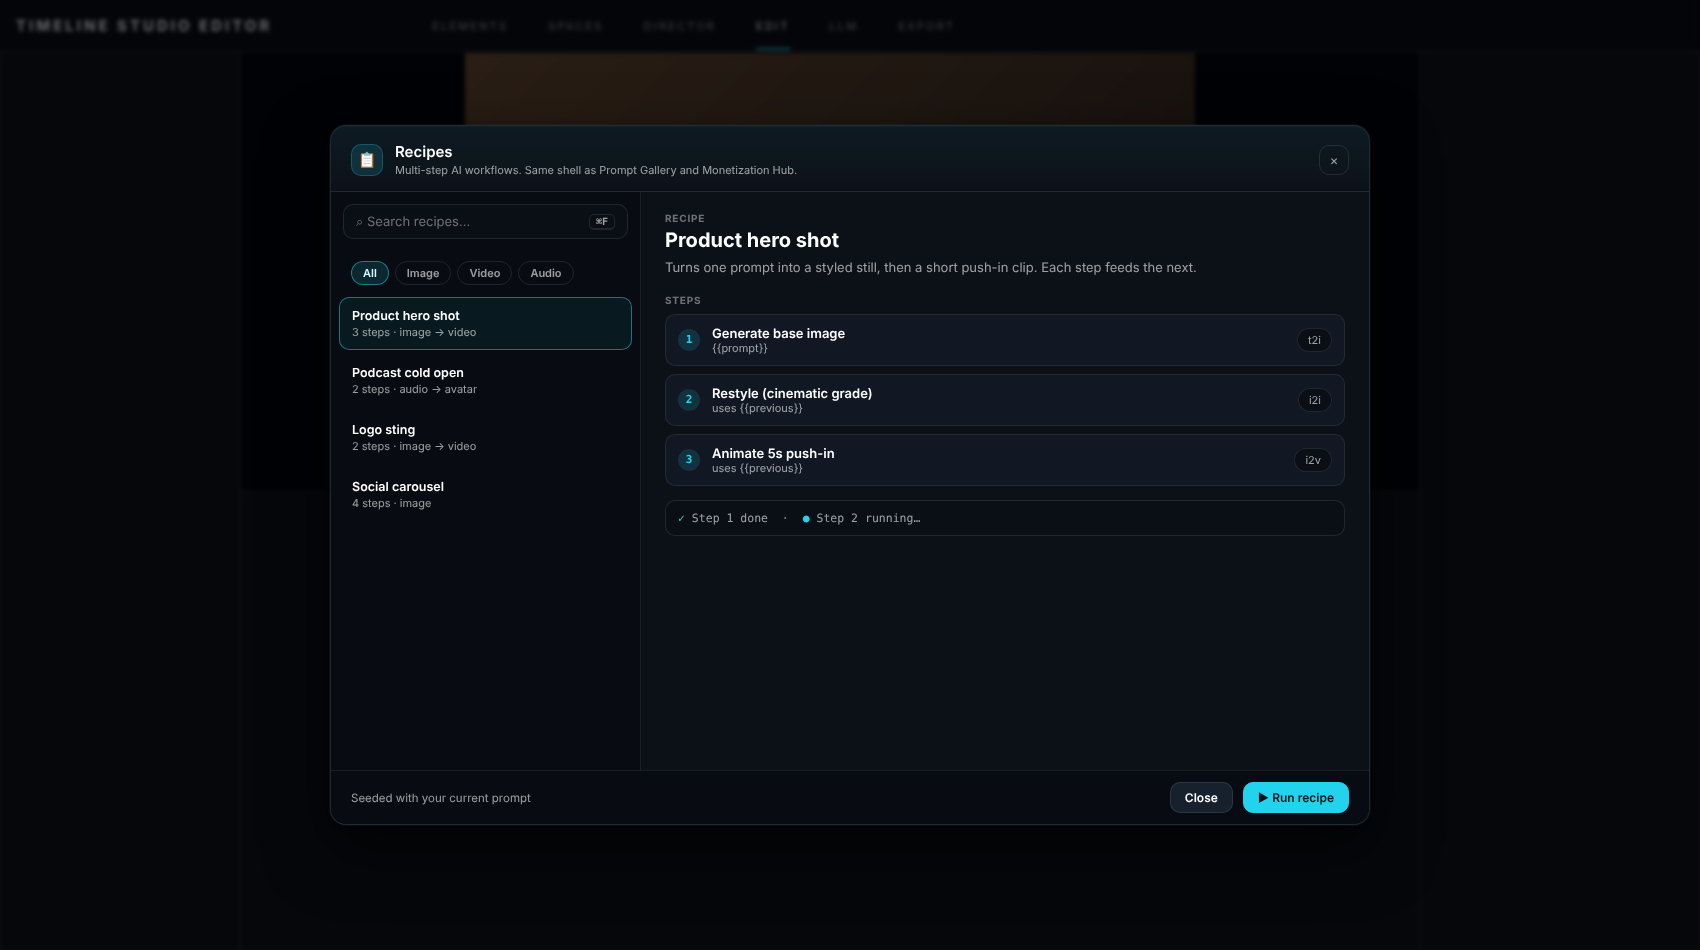
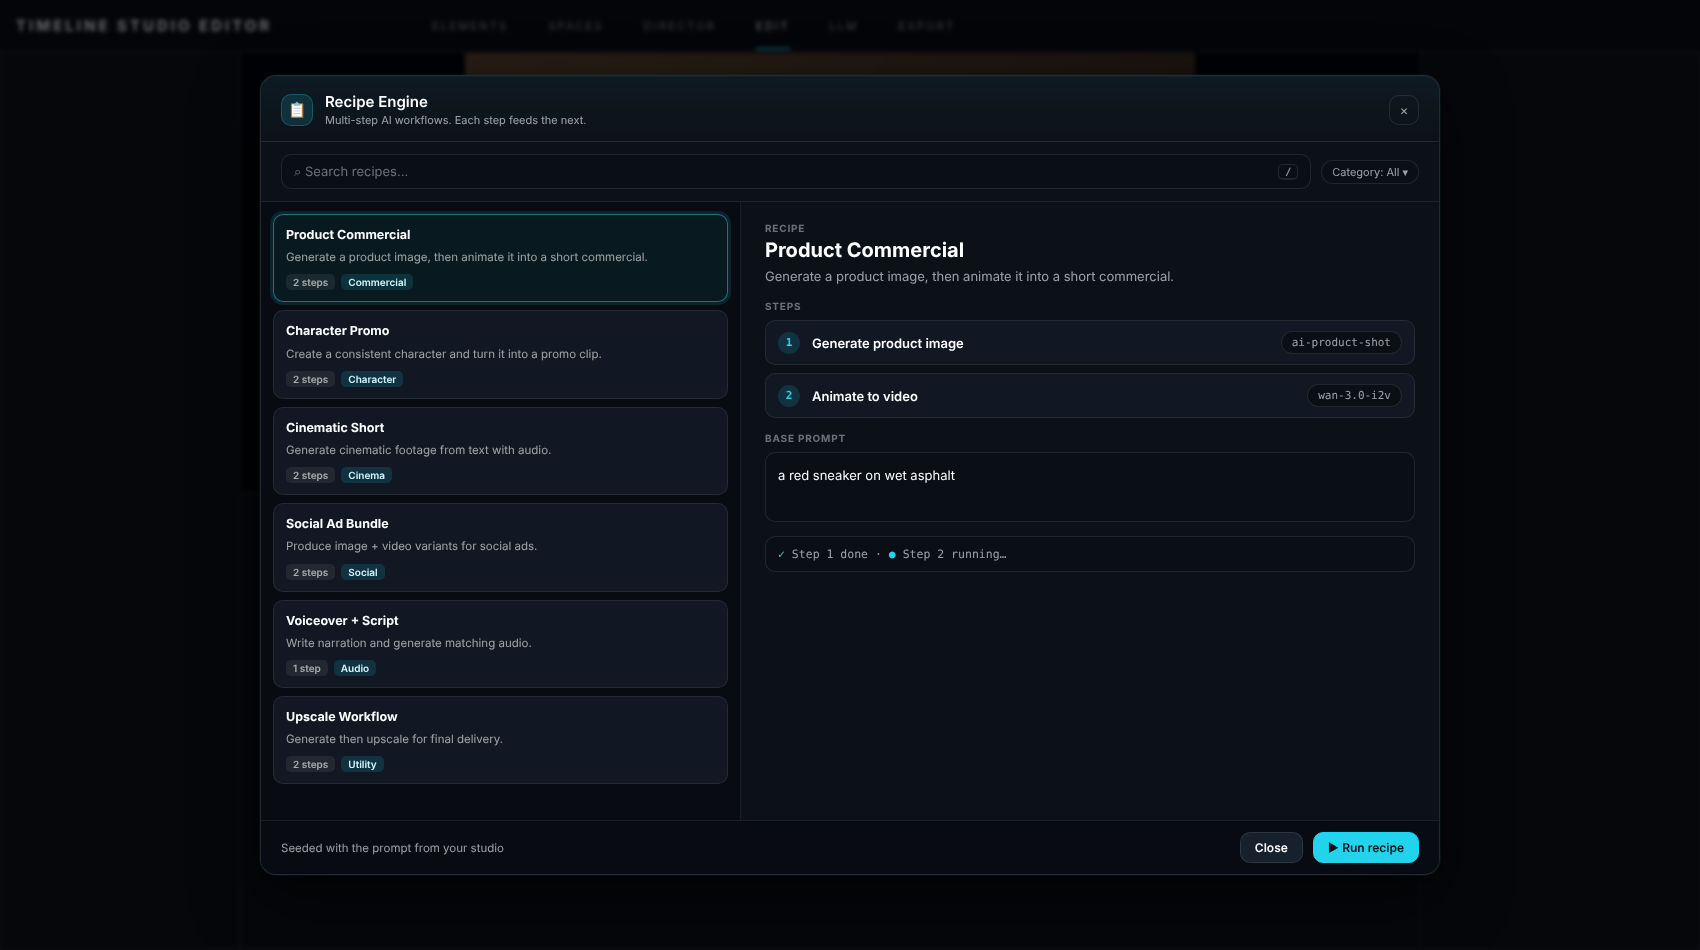
Add current vs proposed catalog modal screenshots to redesign plan
Claude-Session: https://claude.ai/code/session_01HH9yPbjmiMWkUjM1cAAiqS

diff --git a/plans/screenshots/timeline-modal-redesign/s4.html b/plans/screenshots/timeline-modal-redesign/s4.html
@@ -1,8 +1,10 @@
 <!doctype html><meta charset=utf-8><link rel=stylesheet href=mock.css><body><div class="bg"><div class="top"><b>TIMELINE STUDIO EDITOR</b><span>ELEMENTS</span><span>SPACES</span><span>DIRECTOR</span><span class="on">EDIT</span><span>LLM</span><span>EXPORT</span></div>
 <div class="pane" style="left:0;top:52px;width:240px;bottom:0"></div><div class="pane" style="right:0;top:52px;width:280px;bottom:0"></div>
 <div class="pane" style="left:240px;right:280px;top:52px;height:440px;background:#000"><div style="margin:0 auto;width:730px;height:100%;background:linear-gradient(135deg,#6b4a2b,#2b1d12)"></div></div>
-<div class="pane" style="left:240px;right:280px;top:492px;bottom:0"></div></div><div class="scrim"></div><div class="modal" style="width:1040px;height:700px"><div class="mh"><div class="mi">📋</div><div><div class="mt">Recipes</div><div class="ms">Multi-step AI workflows. Same shell as Prompt Gallery and Monetization Hub.</div></div><div class="x">×</div></div>
-<div style="display:flex;flex:1;min-height:0"><div style="width:310px;border-right:1px solid var(--b1);display:flex;flex-direction:column;background:var(--base)"><div style="padding:12px"><div class="search">⌕ Search recipes… <kbd>⌘F</kbd></div></div><div class="cats"><span class="cat on">All</span><span class="cat ">Image</span><span class="cat ">Video</span><span class="cat ">Audio</span></div><div style="padding:8px;display:flex;flex-direction:column;gap:4px"><div style="padding:10px 12px;border-radius:var(--rm);border:1px solid var(--acc-line);background:rgba(34,211,238,.07)"><div style="font-weight:600;font-size:12.5px">Product hero shot</div><div style="font-size:11px;color:var(--tx2);margin-top:2px">3 steps · image → video</div></div><div style="padding:10px 12px;border-radius:var(--rm);border:1px solid transparent;background:transparent"><div style="font-weight:600;font-size:12.5px">Podcast cold open</div><div style="font-size:11px;color:var(--tx2);margin-top:2px">2 steps · audio → avatar</div></div><div style="padding:10px 12px;border-radius:var(--rm);border:1px solid transparent;background:transparent"><div style="font-weight:600;font-size:12.5px">Logo sting</div><div style="font-size:11px;color:var(--tx2);margin-top:2px">2 steps · image → video</div></div><div style="padding:10px 12px;border-radius:var(--rm);border:1px solid transparent;background:transparent"><div style="font-weight:600;font-size:12.5px">Social carousel</div><div style="font-size:11px;color:var(--tx2);margin-top:2px">4 steps · image</div></div></div></div>
-<div style="flex:1;padding:20px 24px;overflow:hidden"><div class="lab">Recipe</div><div style="font-size:20px;font-weight:700;margin:4px 0 6px">Product hero shot</div><div style="color:var(--tx2);line-height:1.5;margin-bottom:16px">Turns one prompt into a styled still, then a short push-in clip. Each step feeds the next.</div><div class="lab" style="margin-bottom:8px">Steps</div><div style="display:flex;gap:12px;align-items:center;padding:10px 12px;border:1px solid var(--b1);background:var(--elev);border-radius:var(--rm);margin-bottom:8px"><span style="width:22px;height:22px;border-radius:11px;background:var(--acc-dim);color:var(--acc);display:grid;place-items:center;font:700 11px var(--mono)">1</span><div style="flex:1"><b style="font-weight:600">Generate base image</b><div style="font-size:11px;color:var(--tx2)">{{prompt}}</div></div><span class="chip">t2i</span></div><div style="display:flex;gap:12px;align-items:center;padding:10px 12px;border:1px solid var(--b1);background:var(--elev);border-radius:var(--rm);margin-bottom:8px"><span style="width:22px;height:22px;border-radius:11px;background:var(--acc-dim);color:var(--acc);display:grid;place-items:center;font:700 11px var(--mono)">2</span><div style="flex:1"><b style="font-weight:600">Restyle (cinematic grade)</b><div style="font-size:11px;color:var(--tx2)">uses {{previous}}</div></div><span class="chip">i2i</span></div><div style="display:flex;gap:12px;align-items:center;padding:10px 12px;border:1px solid var(--b1);background:var(--elev);border-radius:var(--rm);margin-bottom:8px"><span style="width:22px;height:22px;border-radius:11px;background:var(--acc-dim);color:var(--acc);display:grid;place-items:center;font:700 11px var(--mono)">3</span><div style="flex:1"><b style="font-weight:600">Animate 5s push-in</b><div style="font-size:11px;color:var(--tx2)">uses {{previous}}</div></div><span class="chip">i2v</span></div>
-<div style="margin-top:14px;padding:10px 12px;background:var(--input);border:1px solid var(--b2);border-radius:var(--rm);font:11.5px var(--mono);color:var(--tx2)"><span style="color:var(--ok)">✓</span> Step 1 done &nbsp;·&nbsp; <span style="color:var(--acc)">●</span> Step 2 running…</div></div></div>
-<div class="mf"><span>Seeded with your current prompt</span><span class="ml btn">Close</span><span class="btn p">▶ Run recipe</span></div></div></body>
+<div class="pane" style="left:240px;right:280px;top:492px;bottom:0"></div></div><div class="scrim"></div><div class="modal" style="width:1180px;height:800px"><div class="mh"><div class="mi">📋</div><div><div class="mt">Recipe Engine</div><div class="ms">Multi-step AI workflows. Each step feeds the next.</div></div><div class="x">×</div></div>
+<div class="bar"><div class="search">⌕ Search recipes… <kbd>/</kbd></div><span class="chip">Category: All ▾</span></div>
+<div class="two"><div class="lp"><div style="padding:12px;overflow:hidden;flex:1"><div class="li sel"><div class="tt" style="font-weight:700;padding:0">Product Commercial</div><div class="clamp" style="-webkit-line-clamp:1">Generate a product image, then animate it into a short commercial.</div><div class="meta"><span class="tag">2 steps</span><span class="tag a">Commercial</span></div></div><div class="li"><div class="tt" style="font-weight:700;padding:0">Character Promo</div><div class="clamp" style="-webkit-line-clamp:1">Create a consistent character and turn it into a promo clip.</div><div class="meta"><span class="tag">2 steps</span><span class="tag a">Character</span></div></div><div class="li"><div class="tt" style="font-weight:700;padding:0">Cinematic Short</div><div class="clamp" style="-webkit-line-clamp:1">Generate cinematic footage from text with audio.</div><div class="meta"><span class="tag">2 steps</span><span class="tag a">Cinema</span></div></div><div class="li"><div class="tt" style="font-weight:700;padding:0">Social Ad Bundle</div><div class="clamp" style="-webkit-line-clamp:1">Produce image + video variants for social ads.</div><div class="meta"><span class="tag">2 steps</span><span class="tag a">Social</span></div></div><div class="li"><div class="tt" style="font-weight:700;padding:0">Voiceover + Script</div><div class="clamp" style="-webkit-line-clamp:1">Write narration and generate matching audio.</div><div class="meta"><span class="tag">1 step</span><span class="tag a">Audio</span></div></div><div class="li"><div class="tt" style="font-weight:700;padding:0">Upscale Workflow</div><div class="clamp" style="-webkit-line-clamp:1">Generate then upscale for final delivery.</div><div class="meta"><span class="tag">2 steps</span><span class="tag a">Utility</span></div></div></div></div>
+<div class="rp"><div class="lab">Recipe</div><div style="font-size:20px;font-weight:700;margin:4px 0 6px">Product Commercial</div><div style="color:var(--tx2);margin-bottom:16px">Generate a product image, then animate it into a short commercial.</div>
+<div class="lab" style="margin-bottom:8px">Steps</div><div style="display:flex;gap:12px;align-items:center;padding:10px 12px;border:1px solid var(--b1);background:var(--elev);border-radius:var(--rm);margin-bottom:8px"><span style="width:22px;height:22px;border-radius:11px;background:var(--acc-dim);color:var(--acc);display:grid;place-items:center;font:700 11px var(--mono)">1</span><div style="flex:1"><b style="font-weight:600">Generate product image</b></div><span class="chip" style="font-family:var(--mono)">ai-product-shot</span></div><div style="display:flex;gap:12px;align-items:center;padding:10px 12px;border:1px solid var(--b1);background:var(--elev);border-radius:var(--rm);margin-bottom:8px"><span style="width:22px;height:22px;border-radius:11px;background:var(--acc-dim);color:var(--acc);display:grid;place-items:center;font:700 11px var(--mono)">2</span><div style="flex:1"><b style="font-weight:600">Animate to video</b></div><span class="chip" style="font-family:var(--mono)">wan-3.0-i2v</span></div><div class="lab" style="margin:14px 0 8px">Base prompt</div><div class="prev" style="font-family:Inter;font-size:13px;color:#fff;min-height:70px">a red sneaker on wet asphalt</div>
+<div style="margin-top:14px;padding:10px 12px;background:var(--input);border:1px solid var(--b2);border-radius:var(--rm);font:11.5px var(--mono);color:var(--tx2)"><span style="color:var(--ok)">✓</span> Step 1 done · <span style="color:var(--acc)">●</span> Step 2 running…</div></div></div>
+<div class="mf"><span>Seeded with the prompt from your studio</span><span class="ml btn">Close</span><span class="btn p">▶ Run recipe</span></div></div></body>

diff --git a/plans/screenshots/timeline-modal-redesign/s5.html b/plans/screenshots/timeline-modal-redesign/s5.html
@@ -1,0 +1,12 @@
+<!doctype html><meta charset=utf-8><link rel=stylesheet href=mock.css><body><div class="bg"><div class="top"><b>TIMELINE STUDIO EDITOR</b><span>ELEMENTS</span><span>SPACES</span><span>DIRECTOR</span><span class="on">EDIT</span><span>LLM</span><span>EXPORT</span></div>
+<div class="pane" style="left:0;top:52px;width:240px;bottom:0"></div><div class="pane" style="right:0;top:52px;width:280px;bottom:0"></div>
+<div class="pane" style="left:240px;right:280px;top:52px;height:440px;background:#000"><div style="margin:0 auto;width:730px;height:100%;background:linear-gradient(135deg,#6b4a2b,#2b1d12)"></div></div>
+<div class="pane" style="left:240px;right:280px;top:492px;bottom:0"></div></div><div class="scrim"></div><div class="modal" style="width:1180px;height:800px"><div class="mh"><div class="mi">📚</div><div><div class="mt">Prompt Gallery</div><div class="ms">Browse, build and save prompts. Selecting one fills your studio prompt box.</div></div><div class="x">×</div></div>
+<div class="bar"><div class="seg"><span class="on">Browse</span><span class="">Builder</span><span class="">Favorites 2</span></div><div class="search">⌕ Search prompts… <kbd>/</kbd></div><span class="chip">Source: All ▾</span></div>
+<div class="two"><div class="lp"><div class="cats"><span class="cat on">All</span><span class="cat ">Cinematic</span><span class="cat ">Portrait</span><span class="cat ">Anime</span><span class="cat ">Commercial</span><span class="cat ">Nature</span></div><div style="padding:10px 12px;overflow:hidden;flex:1;position:relative"><div class="li sel"><div class="tt">A cinematic drone shot flying over a futuristic city at golden hour, with lens flares and volumetric light.</div><div class="star on">★</div><div class="meta"><span class="tag">minimax</span><span class="tag a">cinematic</span></div></div><div class="li"><div class="tt">Close-up portrait with soft studio lighting, shallow depth of field, 85mm lens, skin detail preserved.</div><div class="star">☆</div><div class="meta"><span class="tag">minimax</span><span class="tag a">portrait</span></div></div><div class="li"><div class="tt">Anime-style street scene in Tokyo at night, neon reflections on wet pavement, motion blur.</div><div class="star">☆</div><div class="meta"><span class="tag">minimax</span><span class="tag a">anime</span></div></div><div class="li"><div class="tt">Product hero shot on a marble surface with soft shadow, clean background, luxury brand aesthetic.</div><div class="star">☆</div><div class="meta"><span class="tag">minimax</span><span class="tag a">commercial</span></div></div><div class="li"><div class="tt">Hyper-realistic food commercial, steam rising, macro lens, shallow depth of field.</div><div class="star on">★</div><div class="meta"><span class="tag">minimax</span><span class="tag a">commercial</span></div></div><div class="li"><div class="tt">Slow-motion ocean waves crashing on rocks at blue hour, long exposure, silky water.</div><div class="star">☆</div><div class="meta"><span class="tag">minimax</span><span class="tag a">cinematic</span></div></div><div style="position:absolute;left:0;right:0;bottom:0;height:50px;background:linear-gradient(transparent,var(--base))"></div></div></div>
+<div class="rp"><div class="lab">Selected prompt</div><div style="font-size:16px;line-height:1.5;font-weight:600;margin:6px 0 10px">A cinematic drone shot flying over a futuristic city at golden hour, with lens flares and volumetric light.</div>
+<div style="display:flex;gap:6px;margin-bottom:16px"><span class="tag">minimax</span><span class="tag a">cinematic</span><span class="ml chip">☆ Favorite</span></div>
+<div class="lab" style="margin-bottom:8px">Structured prompt builder</div>
+<div style="display:grid;grid-template-columns:1fr 1fr;gap:8px"><div class="fld">Camera <b>▾</b></div><div class="fld">Lighting <b>▾</b></div><div class="fld">Style (e.g. cinematic, photorealistic)</div><div class="fld">Negative prompt (optional)</div></div>
+<div class="lab" style="margin:6px 0 8px">Result</div><div class="prev">A cinematic drone shot flying over a futuristic city at golden hour, with lens flares and volumetric light.<mark>, slow dolly-in</mark><mark>, golden hour</mark></div></div></div>
+<div class="mf"><span>Fills the prompt box in Image Studio</span><span class="ml btn">Copy</span><span class="btn p">Use prompt</span></div></div></body>

diff --git a/plans/screenshots/timeline-modal-redesign/s6.html b/plans/screenshots/timeline-modal-redesign/s6.html
@@ -1,0 +1,10 @@
+<!doctype html><meta charset=utf-8><link rel=stylesheet href=mock.css><body><div class="bg"><div class="top"><b>TIMELINE STUDIO EDITOR</b><span>ELEMENTS</span><span>SPACES</span><span>DIRECTOR</span><span class="on">EDIT</span><span>LLM</span><span>EXPORT</span></div>
+<div class="pane" style="left:0;top:52px;width:240px;bottom:0"></div><div class="pane" style="right:0;top:52px;width:280px;bottom:0"></div>
+<div class="pane" style="left:240px;right:280px;top:52px;height:440px;background:#000"><div style="margin:0 auto;width:730px;height:100%;background:linear-gradient(135deg,#6b4a2b,#2b1d12)"></div></div>
+<div class="pane" style="left:240px;right:280px;top:492px;bottom:0"></div></div><div class="scrim"></div><div class="modal" style="width:1180px;height:800px"><div class="mh"><div class="mi">💼</div><div><div class="mt">Monetization Hub</div><div class="ms">Courses and ready-made business templates for selling AI video.</div></div><div class="x">×</div></div>
+<div class="bar"><div class="seg"><span class="on">Tracks</span><span class="">Templates</span></div><div class="search">⌕ Search tracks… <kbd>/</kbd></div><span class="chip">Level: All ▾</span></div>
+<div class="two"><div class="lp"><div style="padding:12px;overflow:hidden;flex:1"><div class="li sel"><div style="display:flex;gap:8px;align-items:center"><div class="tt" style="font-weight:700;padding:0">Smart Video AI Freelance Video</div><span class="lvl l1 ml">Beginner</span></div><div class="clamp">Transform your AI video skills into a 5-figure/month empire using Cialdini's 6 principles of persuasion, behavioural economics and neuromarketing research.</div><div class="meta"><span class="tag">8 lessons</span></div></div><div class="li"><div style="display:flex;gap:8px;align-items:center"><div class="tt" style="font-weight:700;padding:0">Smart Video AI Social Media Agency</div><span class="lvl l2 ml">Intermediate</span></div><div class="clamp">Scale from $0 to $1M ARR in under 12 months using behavioural psychology, the Hook Model and attention-economy research.</div><div class="meta"><span class="tag">10 lessons</span></div></div><div class="li"><div style="display:flex;gap:8px;align-items:center"><div class="tt" style="font-weight:700;padding:0">Smart Video AI YouTube Automation</div><span class="lvl l2 ml">Intermediate</span></div><div class="clamp">Build automated YouTube channels generating $10K–100K+/month using the Hook Model and retention psychology.</div><div class="meta"><span class="tag">9 lessons</span></div></div></div></div>
+<div class="rp"><div style="display:flex;gap:10px;align-items:center"><div style="font-size:20px;font-weight:700">Smart Video AI Freelance Video</div><span class="lvl l1">Beginner</span></div><div style="color:var(--tx3);font-size:11.5px;margin:4px 0 14px">8 lessons · about 1h 10m</div>
+<div style="color:var(--tx2);line-height:1.6;font-size:12.5px;margin-bottom:6px">Transform your AI video skills into a 5-figure/month empire using Cialdini's 6 principles of persuasion, behavioural economics and neuromarketing research.</div><div style="color:var(--acc);font-size:12px;margin-bottom:16px">Show full description ▾</div>
+<div class="lab" style="margin-bottom:8px">Lessons</div><div class="les"><i>1</i><div style="flex:1;font-weight:600">The authority principle: pricing without discounts</div><span style="color:var(--tx3);font-size:11px">6 min</span></div><div class="les"><i>2</i><div style="flex:1;font-weight:600">Scarcity and niche positioning</div><span style="color:var(--tx3);font-size:11px">8 min</span></div><div class="les"><i>3</i><div style="flex:1;font-weight:600">Reciprocity: offers that sell themselves</div><span style="color:var(--tx3);font-size:11px">7 min</span></div><div class="les"><i>4</i><div style="flex:1;font-weight:600">Retainers and the endowment effect</div><span style="color:var(--tx3);font-size:11px">9 min</span></div></div></div>
+<div class="mf"><span>Templates tab: copy or download each template</span><span class="ml btn">Close</span><span class="btn p">Open track</span></div></div></body>

diff --git a/plans/screenshots/timeline-modal-redesign/mock.css b/plans/screenshots/timeline-modal-redesign/mock.css
@@ -38,3 +38,15 @@ box-shadow:0 0 0 1px rgba(34,211,238,.06),0 24px 64px rgba(0,0,0,.65),0 2px 8px 
 .ctx .cl{width:74px;height:42px;border-radius:6px;border:1px solid var(--b2);position:relative}.ctx .cl span{position:absolute;left:4px;bottom:3px;font-size:9px;font-weight:700;text-shadow:0 1px 2px #000}
 .arrow{color:var(--acc);font-size:16px}.rng{flex:1;height:4px;background:rgba(255,255,255,.12);border-radius:4px;position:relative}.rng i{position:absolute;left:0;top:0;bottom:0;width:38%;background:var(--acc);border-radius:4px}.rng b{position:absolute;left:38%;top:-5px;width:14px;height:14px;border-radius:9px;background:#fff;margin-left:-7px}
 .lab{font-size:10px;letter-spacing:.08em;text-transform:uppercase;color:var(--tx3);font-weight:700}
+.cat.dim{opacity:.7}.li{padding:11px 12px;border-radius:var(--rm);border:1px solid var(--b1);background:var(--elev);margin-bottom:8px;position:relative}
+.li.sel{border-color:var(--acc-line);background:rgba(34,211,238,.07);box-shadow:0 0 0 3px rgba(34,211,238,.12)}
+.li .tt{font-size:12.5px;line-height:1.45;color:#fff;padding-right:26px}.li .meta{display:flex;gap:6px;margin-top:8px;align-items:center}
+.tag{font-size:10px;font-weight:600;border-radius:5px;padding:2px 7px;background:rgba(255,255,255,.07);color:var(--tx2)}.tag.a{background:var(--acc-dim);color:#cffafe}
+.star{position:absolute;right:12px;top:11px;color:var(--tx3)}.star.on{color:#fbbf24}
+.fld{background:var(--input);border:1px solid var(--b2);border-radius:var(--rm);padding:9px 12px;color:var(--tx3);font-size:12px;margin-bottom:8px;display:flex}
+.fld b{margin-left:auto;font-weight:400}.prev{background:var(--input);border:1px solid var(--b2);border-radius:var(--rm);padding:12px;font:11.5px/1.6 var(--mono);color:var(--tx2)}
+.prev mark{background:rgba(34,211,238,.16);color:#cffafe;border-radius:3px;padding:0 3px}
+.two{display:flex;flex:1;min-height:0}.lp{width:480px;border-right:1px solid var(--b1);background:var(--base);display:flex;flex-direction:column;min-height:0}.rp{flex:1;padding:20px 24px;overflow:hidden}
+.lvl{font-size:10px;font-weight:700;border-radius:999px;padding:2px 8px}.l1{background:rgba(52,211,153,.14);color:#6ee7b7}.l2{background:rgba(251,191,36,.14);color:#fcd34d}
+.clamp{font-size:11.5px;color:var(--tx2);line-height:1.5;margin-top:5px;display:-webkit-box;-webkit-line-clamp:2;-webkit-box-orient:vertical;overflow:hidden}
+.les{display:flex;gap:12px;align-items:center;padding:9px 12px;border:1px solid var(--b1);background:var(--elev);border-radius:var(--rm);margin-bottom:6px}.les i{font:700 11px var(--mono);font-style:normal;color:var(--acc);width:22px}

diff --git a/plans/cinegen-timeline-modal-redesign-plan.md b/plans/cinegen-timeline-modal-redesign-plan.md
@@ -40,6 +40,16 @@ One shared modal shell, built from existing tokens (no new palette):
 - Transitions gets a context strip (Clip 1 → Clip 2) with a duration slider.
 - Master/detail variant (list left, detail right, steps with a status log) for Recipes, Prompt Gallery, Monetization Hub.
 
+## Catalog modals: current vs proposed
+Current (captured from the real components): `current-recipes.png`, `current-prompt-gallery.png`, `current-monetization-hub.png`.
+Proposed: `04-recipes-catalog.png`, `05-prompt-gallery.png`, `06-monetization-hub.png`.
+
+What the current ones have in common: grey `#111` panels with a lime accent unrelated to the Edit tab, a plain title bar with no icon or
+context, native `<select>` filters, a detail pane that starts empty ("Select a prompt to preview"), and a buttons-without-footer layout.
+Monetization Hub also dumps the full multi-hundred-word track description into each list card, so only one card fits on screen.
+Proposed: shared shell, search with `/`, tabs and filters as pills, selected-card ring, clamped descriptions, and a sticky footer with
+the primary action. The Monetization mockup's lesson list, durations and "Open track" button are illustrative, not from real data.
+
 ## Phases
 0. **Decide the accent** (cyan as the Edit tab shows now, or lime as the tokens say). Mockups use cyan. Switching is one token
    change: `--acc`, `--acc-dim`, `--acc-line` at the top of `mock.css`.
